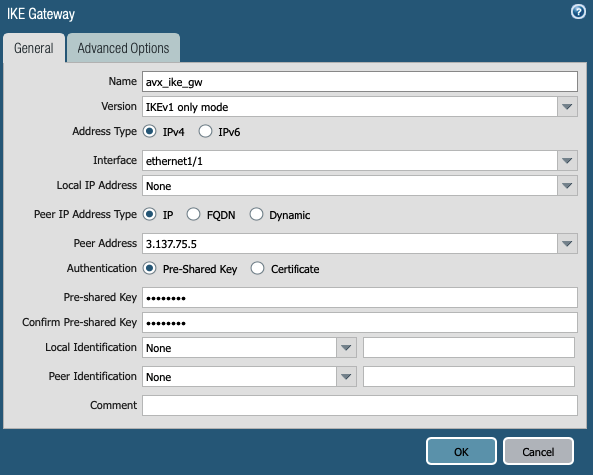
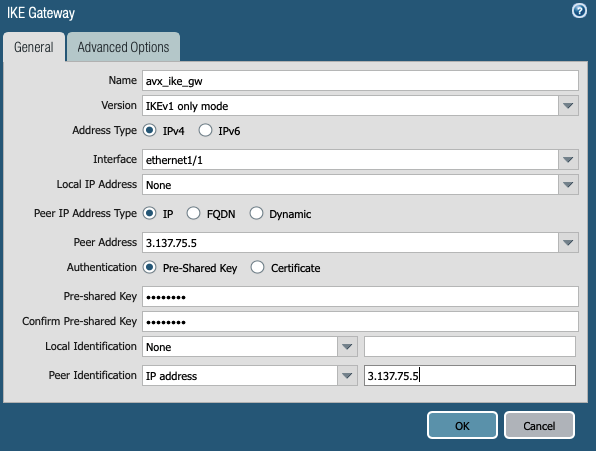
Update Peer IP

diff --git a/HowTos/S2C_GW_PAN.rst b/HowTos/S2C_GW_PAN.rst
@@ -90,8 +90,9 @@ Configuration Workflow
         Interface                         Palo Alto Networks WAN port
         Peer IP Address                   Aviatrix Gateway public IP
         Pre-shared Key                    Key from Site2Cloud configuration downloaded at Step 4
-        Peer Identification               IP Address & Aviatrix Gateway private IP
+        Peer Identification               Peer public IP Address (if the controller version is below 5.0, it should be peer private IP) 
       ===============================     =========================================
+	Note: In Palo Alto Networks offcial documents, it is not necessary to add the Peer Identification.  However, to make sure the tunnel working, we recommend to add it.
 
       |image3|
 
@@ -198,6 +199,6 @@ For troubleshooting, go to **Site2Cloud > Diagnostics** and select various comma
    
 .. |image10| image:: s2c_gw_pan_media/IPSecTunnelStatus.png
     :width: 7.00000 in
-    :height: 1.00000 in
+    :height: 0.60000 in
    
 .. disqus::
